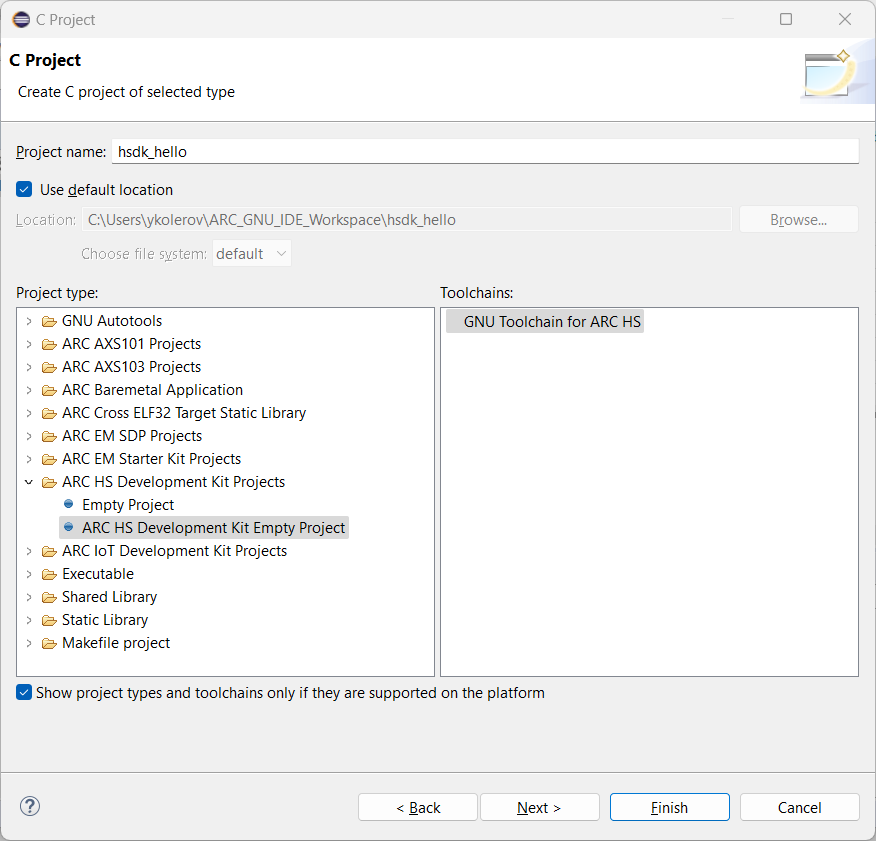
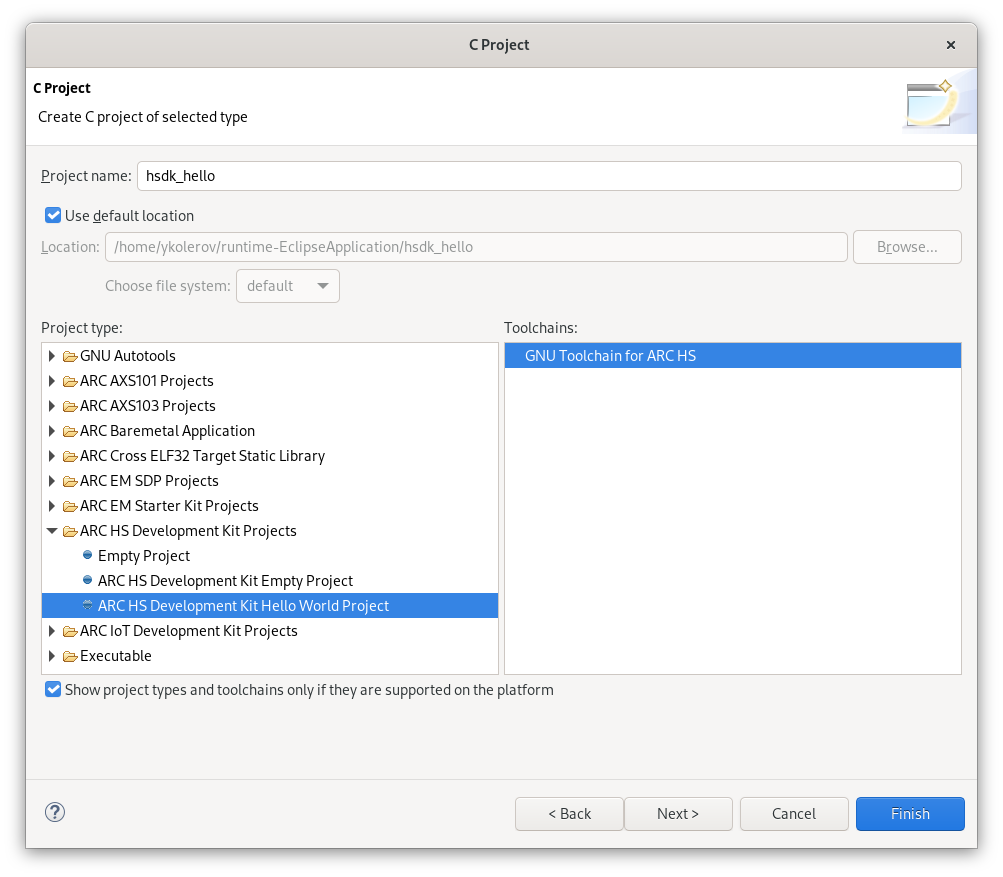
Update HSDK article for Eclipse

Changed region(s): [[0.0, 0.0, 1.0, 1.0]]

diff --git a/docs/eclipse/getting-started/hsdk.md b/docs/eclipse/getting-started/hsdk.md
@@ -11,7 +11,7 @@
 ## Creating the Project
 
 Select **File** → **New** → **Project..** and choose **C Project**.
-A list of ARC projects will appear. Choose any **ARC HS Development Kit Empty Project**
+A list of ARC projects will appear. Choose any **ARC HS Development Kit Hello World Project**
 from the **ARC EM Starter Kit Projects** group:
 
 ![HS Development Kit Projects](./images/hsdk-projects.png)
@@ -33,16 +33,16 @@ The project will be built with this output:
 
 ```text
 make all 
-'Building file: ../src/main.c'
-'Invoking: ARC GNU C Compiler'
-C:\arc_gnu\bin\arc-elf32-gcc.exe -mcpu=hs38_linux -matomic -mll64 -mdiv-rem -mswap -mnorm -mmpy-option=9 -mbarrel-shifter -mfpu=fpud_all --param l1-cache-size=65536 --param l1-cache-line-size=64 -include  C:\Users\ykolerov\ARC_GNU_IDE_Workspace\hsdk_hello\Debug\core_config.h -O0 -g3 -Wall -c -fmessage-length=0 -gdwarf-2 -Wa,-adhlns="src/main.o.lst" -MMD -MP -MF"src/main.d" -MT"src/main.o" -o "src/main.o" "../src/main.c"
-'Finished building: ../src/main.c'
-' '
-'Building target: hsdk_hello.elf'
-'Invoking: ARC GNU C Linker'
-C:\arc_gnu\bin\arc-elf32-gcc.exe -mcpu=hs38_linux -matomic -mll64 -mdiv-rem -mswap -mnorm -mmpy-option=9 -mbarrel-shifter -mfpu=fpud_all --param l1-cache-size=65536 --param l1-cache-line-size=64 -Wl,-marcv2elfx -L  C:\Users\ykolerov\ARC_GNU_IDE_Workspace\hsdk_hello\Debug --specs=nosys.specs -Wl,--defsym=ivtbase_addr=0x0 -Wl,-Map,hsdk_hello.map -o "hsdk_hello.elf"  ./src/main.o 
-'Finished building target: hsdk_hello.elf'
-' '
+Building file: ../src/main.c
+Invoking: ARC GNU C Compiler
+arc-elf32-gcc -mcpu=hs38_linux -matomic -mll64 -mdiv-rem -mswap -mnorm -mmpy-option=9 -mbarrel-shifter -mfpu=fpud_all --param l1-cache-size=65536 --param l1-cache-line-size=64 -include  /home/ykolerov/runtime-EclipseApplication/hsdk_hello/Debug/core_config.h -O0 -g3 -Wall -c -fmessage-length=0 -gdwarf-2 -Wa,-adhlns="src/main.o.lst" -MMD -MP -MF"src/main.d" -MT"src/main.o" -o "src/main.o" "../src/main.c"
+Finished building: ../src/main.c
+ 
+Building target: hsdk_hello.elf
+Invoking: ARC GNU C Linker
+arc-elf32-gcc -mcpu=hs38_linux -matomic -mll64 -mdiv-rem -mswap -mnorm -mmpy-option=9 -mbarrel-shifter -mfpu=fpud_all --param l1-cache-size=65536 --param l1-cache-line-size=64 -specs=hsdk.specs -Wl,-Map,hsdk_hello.map -o "hsdk_hello.elf" ./src/main.o 
+/home/ykolerov/workspace/newlib-memory-map/arc-gnu-toolchain/arc-elf32/lib/gcc/arc-elf32/13.1.1/../../../../arc-elf32/bin/ld: warning: hsdk_hello.elf has a LOAD segment with RWX permissions
+Finished building target: hsdk_hello.elf
 ```
 
 ## Creating a Debug Configuration
@@ -65,9 +65,18 @@ choose **HS38 #1** target core. Then click on **Apply**.
 
 ## Configuring a Serial Terminal
 
-Input/output functions for HS Development Kit are not supported by the toolchain yet.
-Navigate to **Terminal** inner tab of **Main** tab and unselect **Launch Terminal**
-checkbox.
+Navigate to **Terminal** inner tab of **Main** tab and select a COM port for
+the board. Eclipse automatically detects all available COM ports. In my case
+it's `COM7`.
+
+![Debug Configuration - Terminal](./images/hsdk-debug-conf-terminal.png)
+
+On Windows you can find the exact number in **Device Manager** (it corresponds
+to **USB Serial Port** device):
+
+![Debug Configuration - Port](./images/emsk-debug-conf-port.png)
+
+On Linux a serial device for HS Development Kit is usually `/dev/ttyUSB0`.
 
 ## Debugging the Project
 
@@ -75,3 +84,8 @@ Open the debug configuration in **Debug Configurations** windows and click
 on **Debug** button. The **Debug** perspective will be opened:
 
 ![Debug - Perspective](./images/hsdk-debug-perspective.png)
+
+Use **Step Over** button to step over `printf` function and select **Terminal**
+in the bottom of the window. "Hello world!" string will be printed:
+
+![Debug - Output](./images/hsdk-debug-output.png)
